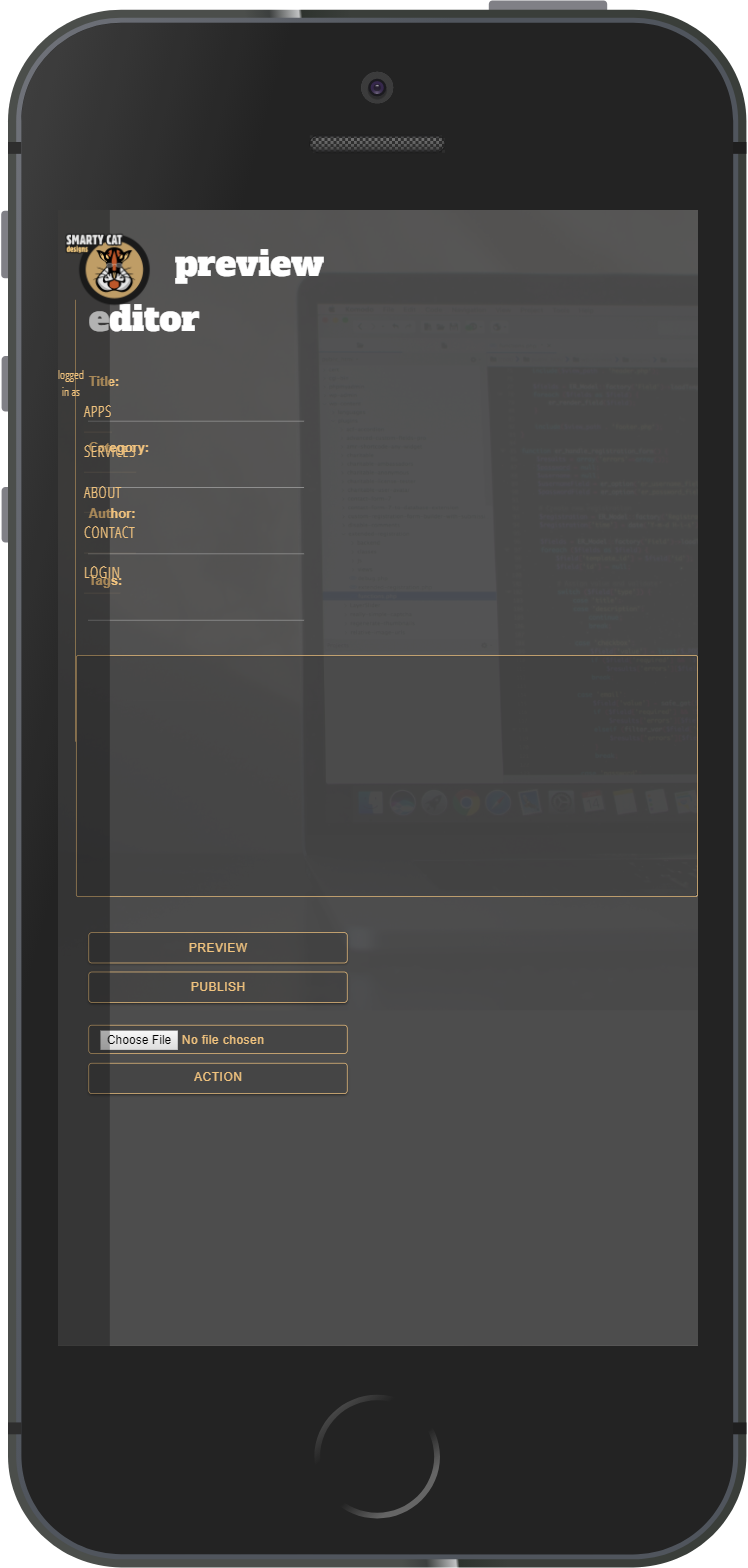
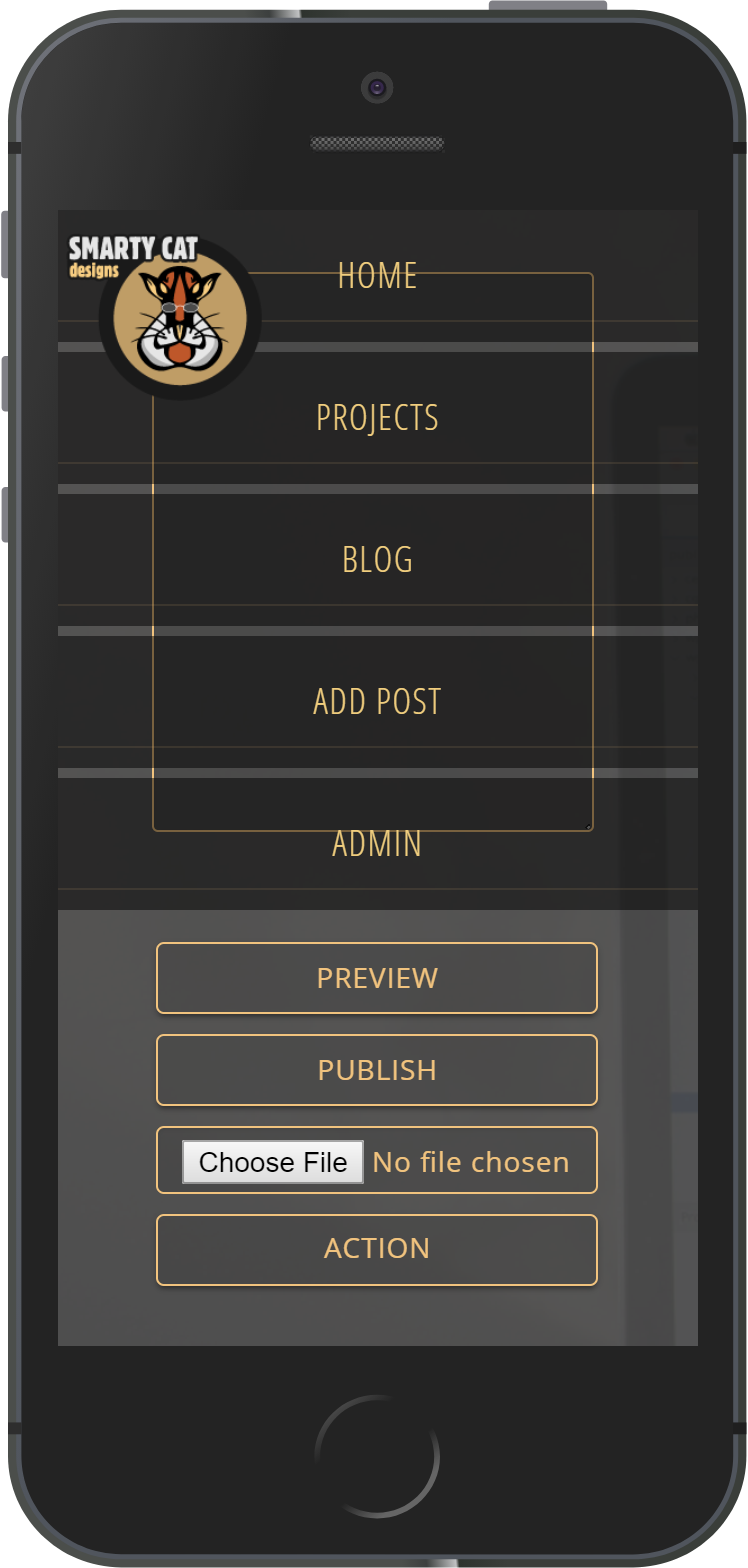
More styling changes for the main text editor

diff --git a/public/stylesheets/textEditor.css b/public/stylesheets/textEditor.css
@@ -4,137 +4,255 @@
 #4D4D4D - darkGrey
 #FF7538 - orange
 */
+
 @import 'nav.css';
-body ,html{
-    width:100%;
-    height: 100%;
-    padding:0px;
-    margin: 0 ;
-    background-color:#4d4d4d;
-    color:#F1c37E;
-    background-image: url("../images/bgHome.png");
-    background-repeat: no-repeat;
-    background-position: 50% 30%;
+body, html {
+  width: 100%;
+  height: 100%;
+  padding: 0px;
+  margin: 0;
+  background-color: #4d4d4d;
+  color: #F1c37E;
+  background-image: url("../images/bgHome.png");
+  background-repeat: no-repeat;
+  background-position: 50% 30%;
 }
 
-h1{
-  color:white;
+h1 {
+  color: white;
   font-size: 4rem;
-  font-family: 'Alfa Slab One',sans-serif;
+  font-family: 'Alfa Slab One', sans-serif;
 }
 
 #mainWindow {
-    height:95vh;
-    min-height: 95vh;
-    padding:20px;
+  height: 95vh;
+  min-height: 95vh;
+  padding: 20px;
 }
-#editorWindow{
-  border-left:.5px solid #F1c37E;
-  height: 90vh;
 
+#editorWindow {
+  border-left: .5px solid #F1c37E;
+  height: 90vh;
 }
-.editorHeader{
+
+.editorHeader {
   margin-top: 40px;
 }
-.textArea{
+
+.textArea {
   margin-top: 20px;
-  height:400px;
-  width:720px;
+  height: 400px;
+  width: 90%;
   background-color: rgba(0, 0, 0, 0.1);
   border: .5px solid #F1c37e;
   border-radius: 3px;
   display: inline-block;
 }
-label{
+
+label {
   font-size: 1.5rem;
-  color:#f1c37e;
-}
-.form-control{
-  background-color: rgba(0,0,0,0.1);
-  color:#F1c37E;
-  border: .5px solid #F1c37e;
-}
-.myBtn{
-  background-color: rgba(0,0,0,0.1);
-  border:1px solid #F1c37E;
-  margin-left:15px;
-  margin-bottom: 10px;
-  color:#f1c37e;
-  width: 300px;
-}
-.myBtn:hover,.myBtn:focus{
-  background-color: rgba(0,0,0,0.2);
-  color:#fff;
+  color: #f1c37e;
 }
 
-.editorTop h2, #previewWindow h2{
+.form-control {
+  background-color: rgba(0, 0, 0, 0.1);
+  color: #F1c37E;
+  border: .5px solid #F1c37e;
+}
+
+.myBtn {
+  background-color: rgba(0, 0, 0, 0.1);
+  border: 1px solid #F1c37E;
+  margin-left: 15px;
+  margin-bottom: 10px;
+  color: #f1c37e;
+  width: 300px;
+}
+
+.myBtn:hover, .myBtn:focus {
+  background-color: rgba(0, 0, 0, 0.2);
+  color: #fff;
+}
+
+.editorTop h2, #previewWindow h2 {
   padding: 10px;
-  background-color: rgba(0,0,0,0.1);
+  background-color: rgba(0, 0, 0, 0.1);
   border-radius: 3px;
 }
 
-.fileInput{
-
-  width:300px;
+.fileInput {
+  width: 300px;
   margin-bottom: 10px;
 }
-.previewBtn{
+
+.previewBtn {
   float: right;
   margin-bottom: 10px;
 }
 
-.actionBtn{
-  margin-top:10px;
+.actionBtn {
+  margin-top: 10px;
 }
-.editorBody{
+
+.editorBody {
   text-align: center;
 }
-#editorBody{
-  height:280px;
+
+#editorBody {
+  height: 280px;
 }
 
 /*Preview Window Style*/
-#previewWindow{
-  text-align:center;
-  padding-left:115px;
-  padding-right:15px;
+
+#previewWindow {
+  text-align: center;
+  padding-left: 115px;
+  padding-right: 15px;
 }
 
-.previewText{
+.previewText {
   text-align: justify;
   margin-top: 10px;
-  margin-left:10px;
+  margin-left: 10px;
   width: 590px;
 }
-.previewTitle{
-  color:#fff;
-  font-family: "Alfa Slab One",cursive;
+
+.previewTitle {
+  color: #fff;
+  font-family: "Alfa Slab One", cursive;
 }
-.authorSpan{
-  color:#FFF;
+
+.authorSpan {
+  color: #FFF;
 }
-.previewCategory{
+
+.previewCategory {
   font-style: italic;
-  color:#fff;
+  color: #fff;
   float: right;
 }
-.divider{
-  height:2px;
+
+.divider {
+  height: 2px;
   background-color: #F1c37e;
-  clear:both;
+  clear: both;
 }
-.myForm{
-  width:45%;
+
+.myForm {
+  width: 45%;
   margin: auto;
 }
-.projectEditorWindow{
-  text-align: center;
 
-}
-.projectHeaderText{
-  display:inline-block;
-
-}
-.projectEditorTop{
+.projectEditorWindow {
   text-align: center;
+}
+
+.projectHeaderText {
+  display: inline-block;
+}
+
+.projectEditorTop {
+  text-align: center;
+}
+.myForm{
+  width:98%;
+  margin-left:6%;
+}
+
+@media (min-width:320px) and (max-width:767px) {
+  #nav {
+    position: fixed;
+    /* z-index: 1; */
+    /* top:28%; */
+    background-color: rgba(0, 0, 0, 0.0);
+    text-align: center;
+    /* padding-top: 24%; */
+    color: white;
+    text-align: center;
+    padding-left: 0px;
+    width: 100vw;
+    padding-top: 0px;
+  }
+  #nav ul {
+    /* padding-left: 20px; */
+    display: inline-block;
+    text-align: center;
+    bottom: 150px;
+  }
+  #nav ul li {
+    text-align: center;
+    margin: 0;
+    display: inline-block;
+    background-color: rgba(0, 0, 0, 0.5);
+  }
+  #nav li a {
+    font-family: 'Open Sans Condensed', sans-serif;
+    color: #f1ce7e;
+    display: inline-block;
+    width: 100vw;
+    margin-right: 10px;
+    padding: 10px;
+    /* border-radius: 50%; */
+    margin-top: -20px;
+  }
+  #nav li img {
+    display: none;
+    /*float:left;*/
+  }
+  .logo img {
+    width: 100px;
+  }
+  .logo {
+    position: fixed;
+    z-index: 1001;
+  }
+  #mainWindow{
+    padding-left: 10%;
+  }
+  #editorWindow {
+    width: 80vw;
+  }
+  #previewWindow {
+    display: none;
+  }
+  #previewWindow h2{
+    display:none;
+  }
+  #editorWindow{
+    border-left:none;
+    margin-left:0;
+  }
+  .myBtn{
+    width:90%;
+  }
+}
+
+@media (min-width:768px) and (max-width:991px) {
+  #nav {
+    position: absolute;
+    z-index: 1;
+    height: 100%;
+    min-height: 100%;
+    /* background-color:rgba(0,0,0, 0.3); */
+    text-align: center;
+    /* padding-top: 20%; */
+  }
+  #nav ul {
+    margin-top: 80%;
+  }
+  .logo img {
+    height: 75px;
+  }
+  .logo {
+    position: fixed;
+    z-index: 1001;
+  }
+  #previewWindow {
+    display: none;
+  }
+  #previewWindow h2{
+    display:none;
+  }
+
+
 }
